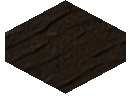
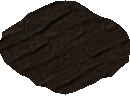
Fix tiles

Changed region(s): [[0.0, 0.0, 0.5231, 0.96], [0.5231, 0.0, 1.0, 0.93]]

diff --git a/frontend/src/lib/ui/PlanetMap.svelte b/frontend/src/lib/ui/PlanetMap.svelte
@@ -1,7 +1,6 @@
 <script>
   import { createEventDispatcher, onDestroy, onMount } from 'svelte';
   import {
-    HEX_POINTS,
     TILE_H,
     TILE_W,
     buildingSrc,
@@ -282,9 +281,9 @@
       {/each}
 
       <div class="sel-frame" style={`left:${sel.x}px; top:${sel.y}px; width:${TILE_W}px; height:${TILE_H}px`}>
-        <svg class="sel-hex" viewBox={`0 0 ${TILE_W} ${TILE_H}`} aria-hidden="true">
-          <polygon class="sel-hex-glow" points={HEX_POINTS} />
-          <polygon class="sel-hex-stroke" points={HEX_POINTS} />
+        <svg class="sel-oval" viewBox={`0 0 ${TILE_W} ${TILE_H}`} aria-hidden="true">
+          <ellipse class="sel-oval-glow" cx="65" cy="48" rx="60" ry="35" />
+          <ellipse class="sel-oval-stroke" cx="65" cy="48" rx="60" ry="35" />
         </svg>
       </div>
 
@@ -581,7 +580,7 @@
     color: #ff6868;
   }
 
-  .sel-hex {
+  .sel-oval {
     display: block;
     width: 100%;
     height: 100%;
@@ -589,20 +588,18 @@
     animation: sel-frame-pulse 2.286s linear infinite;
   }
 
-  .sel-hex-glow {
+  .sel-oval-glow {
     fill: rgba(0, 229, 255, 0.1);
     stroke: var(--neon-cyan);
     stroke-width: 6;
-    stroke-linejoin: round;
     opacity: 0.45;
     filter: blur(2px);
   }
 
-  .sel-hex-stroke {
+  .sel-oval-stroke {
     fill: rgba(0, 229, 255, 0.08);
     stroke: var(--neon-cyan);
     stroke-width: 2.5;
-    stroke-linejoin: round;
   }
 
   @keyframes sel-frame-pulse {

diff --git a/frontend/src/lib/planetMap.js b/frontend/src/lib/planetMap.js
@@ -145,7 +145,7 @@ export function selectionPos(x, y) {
   return tileDrawPos(x, y);
 }
 
-export const HEX_POINTS = '65,0 125,32 125,61 65,93 5,61 5,32';
+export const HEX_POINTS = '65,0 75,1 84,6 92,12 100,16 110,19 118,24 125,31 128,36 129,40 129,44 129,49 129,53 128,57 128,61 118,69 111,76 101,78 93,83 84,87 75,91 65,94 55,92 46,87 36,85 29,78 20,74 12,68 5,62 2,57 0,53 0,49 0,44 0,40 2,36 2,32 12,25 21,20 28,13 37,9 45,5 55,1';
 
 export function clampMapOffset(ox, oy, mapW, mapH, viewW, viewH, zoom) {
   const scaledW = (mapW * zoom) / 4;
